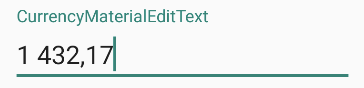
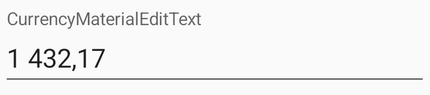
docs: correct the Kover filter description and refresh the screenshots
The guidance said the coverage filter covers the watchers and the utilities,
while the build script has included the calculator package since 1dc8ed1 — so
anyone reasoning about the margin under the 90% floor started from a denominator
a third too small. Name the third package in CLAUDE.md and in the CI step's
comment, and say why the package is in.

The README's screenshots were taken in 2023 and predate both the calculator and
the current Material styling. Retake the three of them from the sample app and
add one for the calculator panel, which the README described in words only. The
first Maven Central line goes: the badge above it links to the same page.

Closes #56

Claude-Session: https://claude.ai/code/session_01BShBRb35NbBW7ubicbKp3m

Changed region(s): [[0.0, 0.4091, 0.9973, 0.8864], [0.0, 0.1136, 0.5742, 0.3182]]

diff --git a/README.md b/README.md
@@ -3,8 +3,6 @@
 [![ci](https://github.com/pravbeseda/CurrencyEditText/actions/workflows/ci.yml/badge.svg)](https://github.com/pravbeseda/CurrencyEditText/actions/workflows/ci.yml)
 [![Maven Central](https://img.shields.io/maven-central/v/ru.pravbeseda/CurrencyEditText.svg?label=Maven%20Central)](https://central.sonatype.com/artifact/ru.pravbeseda/CurrencyEditText)
 
-**Maven Central:** https://central.sonatype.com/artifact/ru.pravbeseda/CurrencyEditText
-
 This library provides components `CurrencyEditText` and `CurrencyMaterialEditText` that can replace
 a regular `EditText`. With built-in number formatting, these components are useful for entering
 monetary amounts and other numeric values.
@@ -275,6 +273,8 @@ flips the operand being entered — and `=` writes the result back into the fiel
 negative in a field with
 `negativeValueAllow="false"` leaves the field untouched. The system keyboard is not replaced: the
 field still takes typed input as before.
+
+![Calculator](./demo/Calculator.png)
 
 On `CurrencyEditText` the button is drawn as a compound drawable and opens on a tap on the icon, so
 it is not a separate node for a screen reader. Where that matters, use `CurrencyMaterialEditText`:

diff --git a/CLAUDE.md b/CLAUDE.md
@@ -72,9 +72,11 @@ All six block the build, and `./gradlew build` runs all six:
 | ABI validation (Kotlin plugin's `abiValidation {}`) | `library/build.gradle` | `library/api/library.api` — the public API, not a debt list |
 
 Coverage is measured on `:library` only and filtered to
-`ru.pravbeseda.currencyedittext.watchers.*` and `…util.*`. The two Views cannot be reached from
-`src/test`, so an unfiltered figure would report the share of View code in the module rather than
-the quality of the tests.
+`ru.pravbeseda.currencyedittext.watchers.*`, `…util.*` and `…calculator.*`. The two Views cannot
+be reached from `src/test`, so an unfiltered figure would report the share of View code in the
+module rather than the quality of the tests. The calculator package is in because everything in
+it but `CalculatorPopup` and `CalculatorStyle`, the two that touch Android, is plain Kotlin
+`src/test` reaches.
 
 The plain `detekt` task is disabled on purpose: it analyses without type resolution and would offer
 a green run that checks a fraction of what the gate checks. Use `detektAll`, which is the same list
